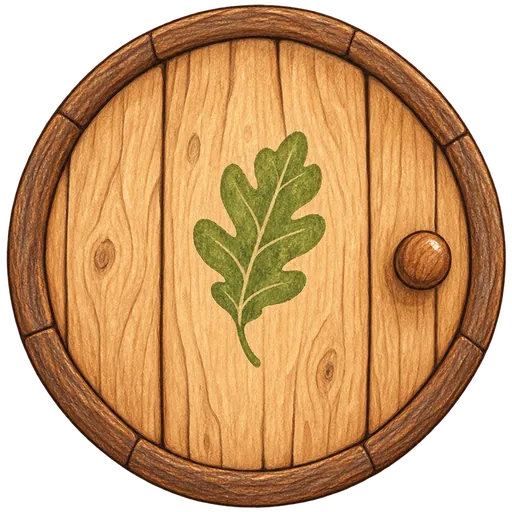
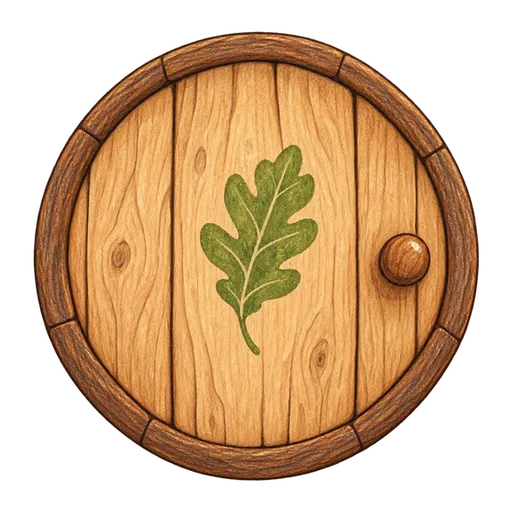
The old hollow's door gets the white edge while it waits to be dragged
It was cut with no room round it (a sheet without outline); re-cut on the sticker canvas and listed, DRZWI rescaled so the door is the same size as before.

diff --git a/game/lessons/bigger_smaller/lesson.js b/game/lessons/bigger_smaller/lesson.js
@@ -26,7 +26,7 @@ const pasujeRozmiar = (h, who) => (h.ranga === MIEJSCE[who] ? true : h.ranga < M
 const zleRozmiar = (o) => (o === "za_duze" ? "line.za_duze" : "line.za_male");
 
 // the hole of a "dziupla" sticker: centre and diameter (measured on the picture: 0.43 of the sticker, a bit above the middle)
-const OTWOR = { dx: 0.0, dy: 0.025, d: 0.43 }, DRZWI = 0.94;      // DRZWI: the door's circle in its own sticker
+const OTWOR = { dx: 0.0, dy: 0.025, d: 0.43 }, DRZWI = 0.838;     // DRZWI: the door's circle in its own sticker (it has room round it for the white edge)
 const otwor = (h) => ({ x: h.mesh.position.x + OTWOR.dx * h.base, y: h.mesh.position.y + OTWOR.dy * h.base, d: OTWOR.d * h.base });
 // the door always in front of the hollows (stickers draw at 10): a drag lifts it and puts its own order back
 const przed = (drzwi) => { drzwi.mesh.position.z = 0.6; drzwi.mesh.traverse((m) => { if (m.isMesh) m.renderOrder = 12 + (m.renderOrder % 1); }); };

diff --git a/tools/objects/make_objects.py b/tools/objects/make_objects.py
@@ -1260,6 +1260,7 @@ small downturned mouth, ONE small tear on one cheek, soft rosy cheeks. Gentle, N
 
 # bigger and smaller: the old hollow's little round door - carried along and held against each new hole (a template)
 SHEETS["drzwiczki"] = {
+    "outline": True,                              # dragged onto the hollows: it needs room for the game's white edge
     "names": ["drzwiczki"],
     "size": "1024x1024",
     "rows": 1,
